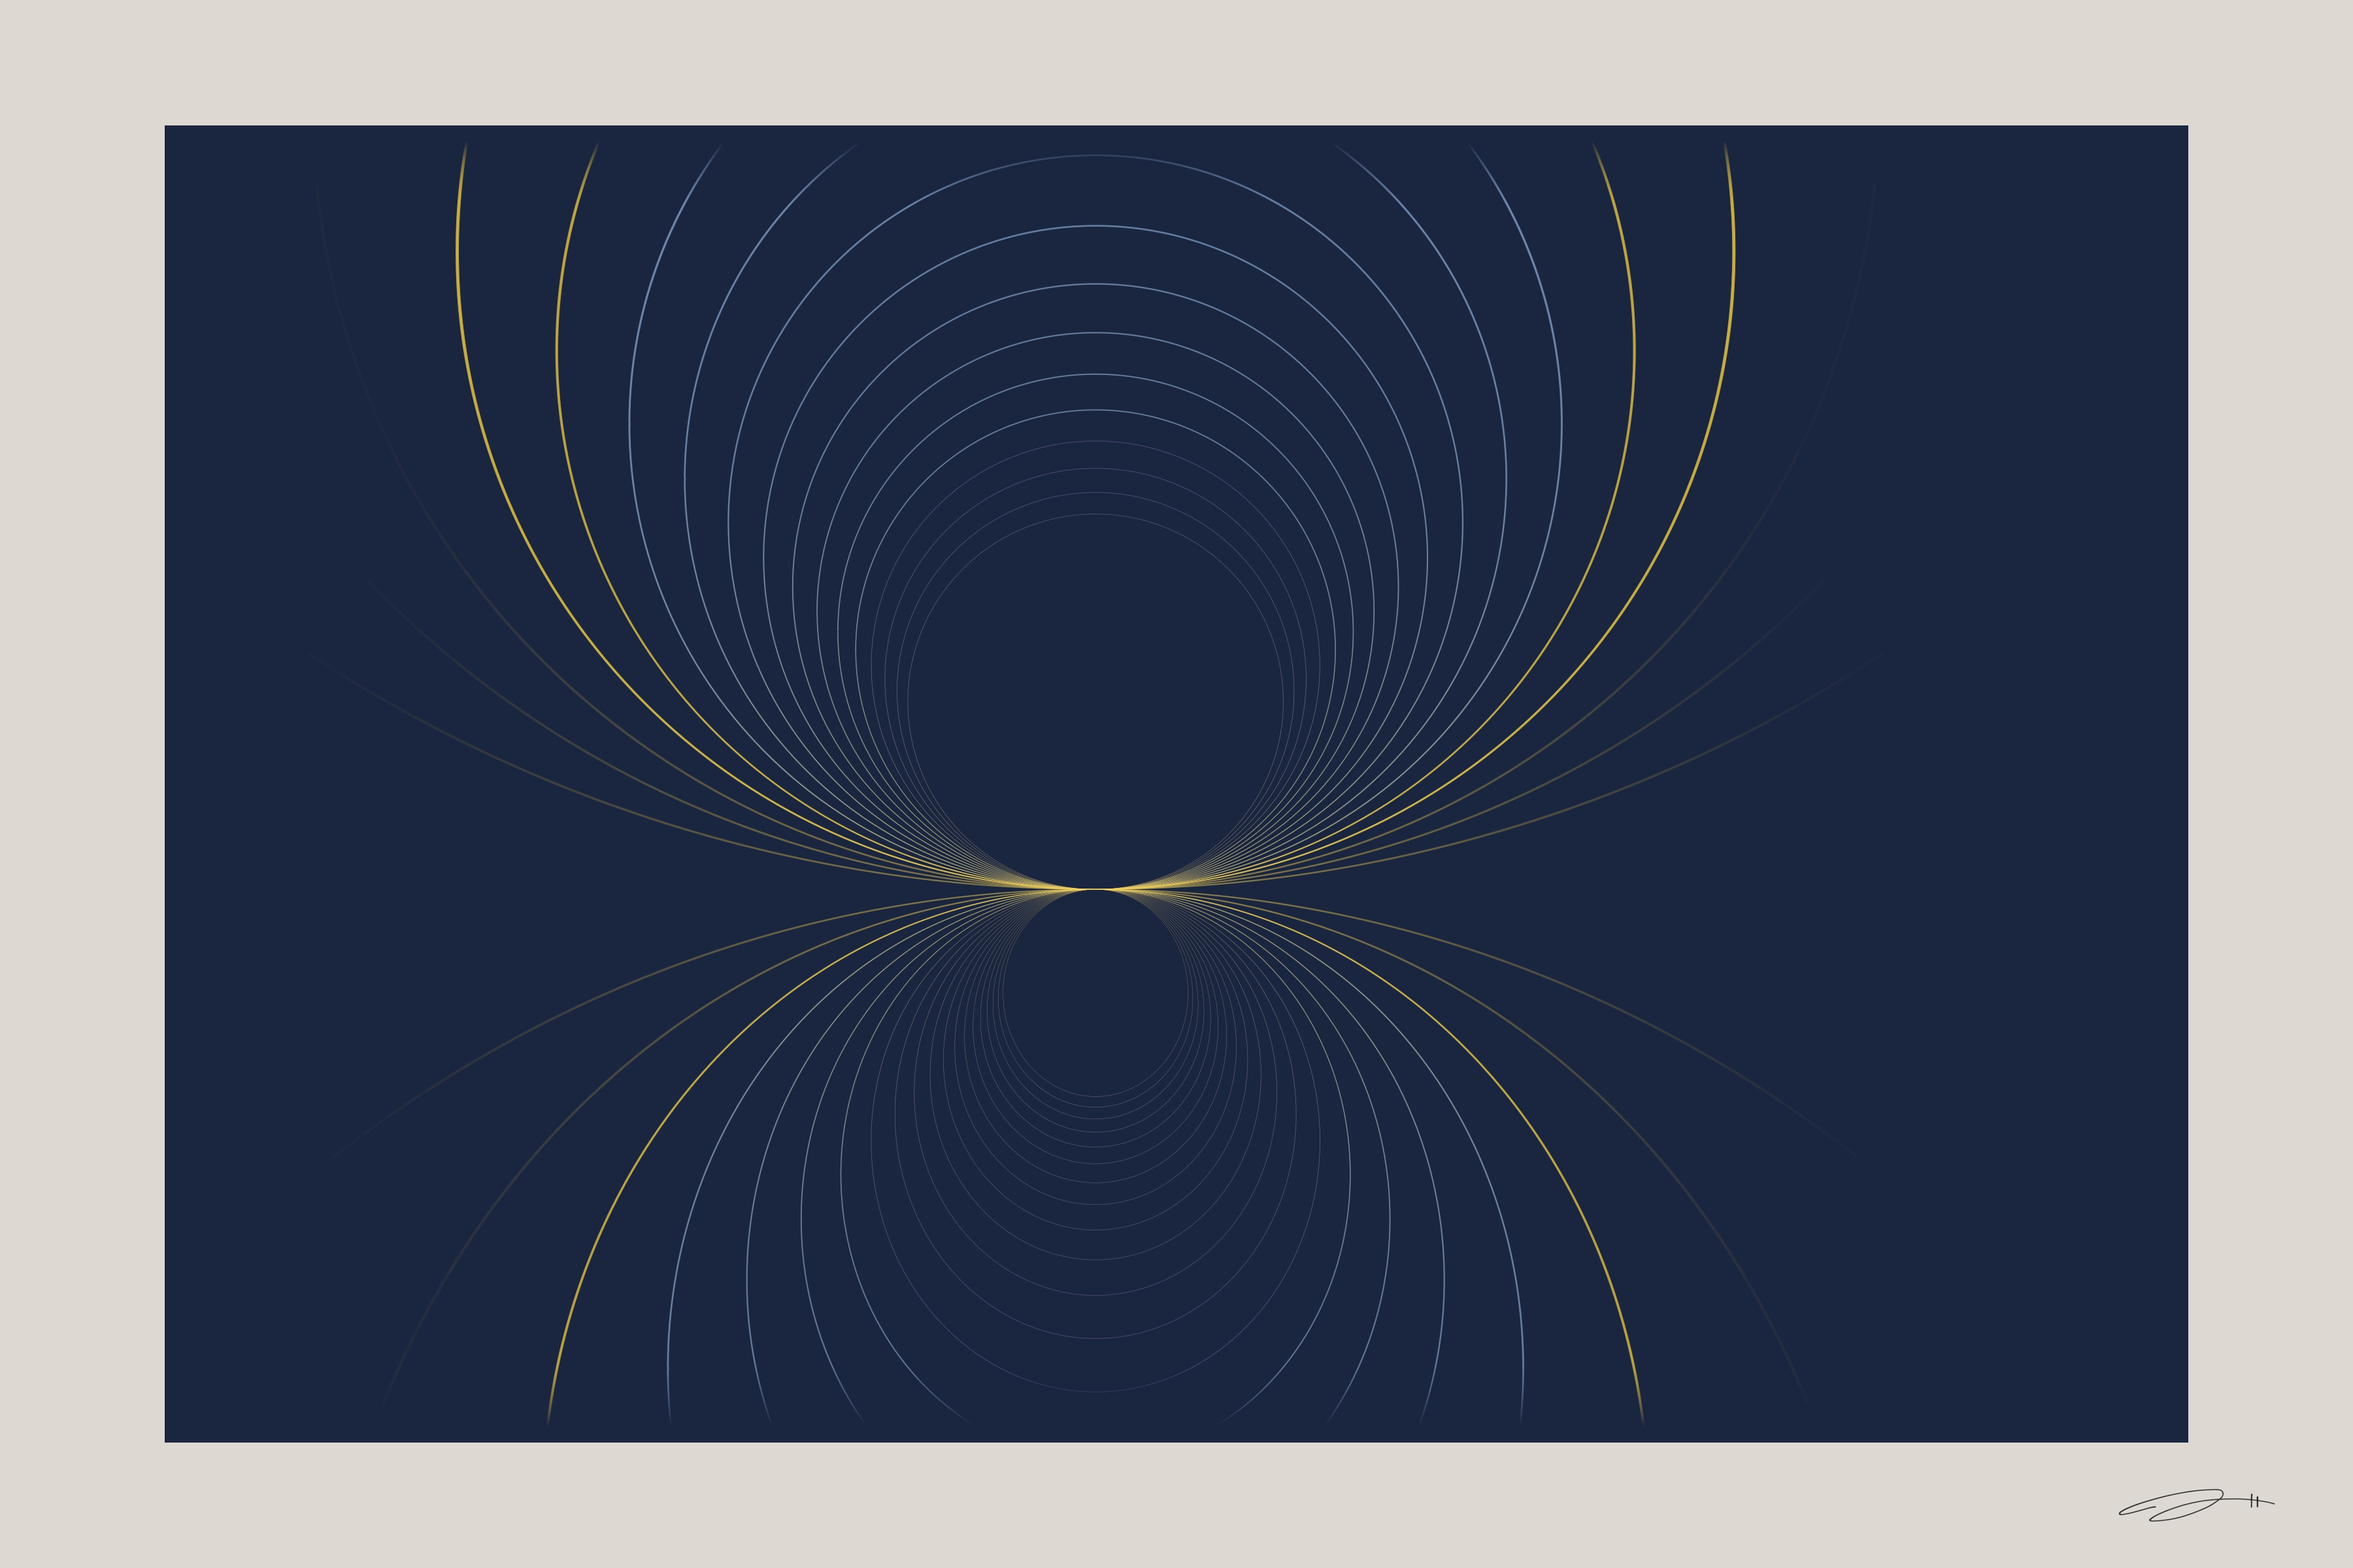
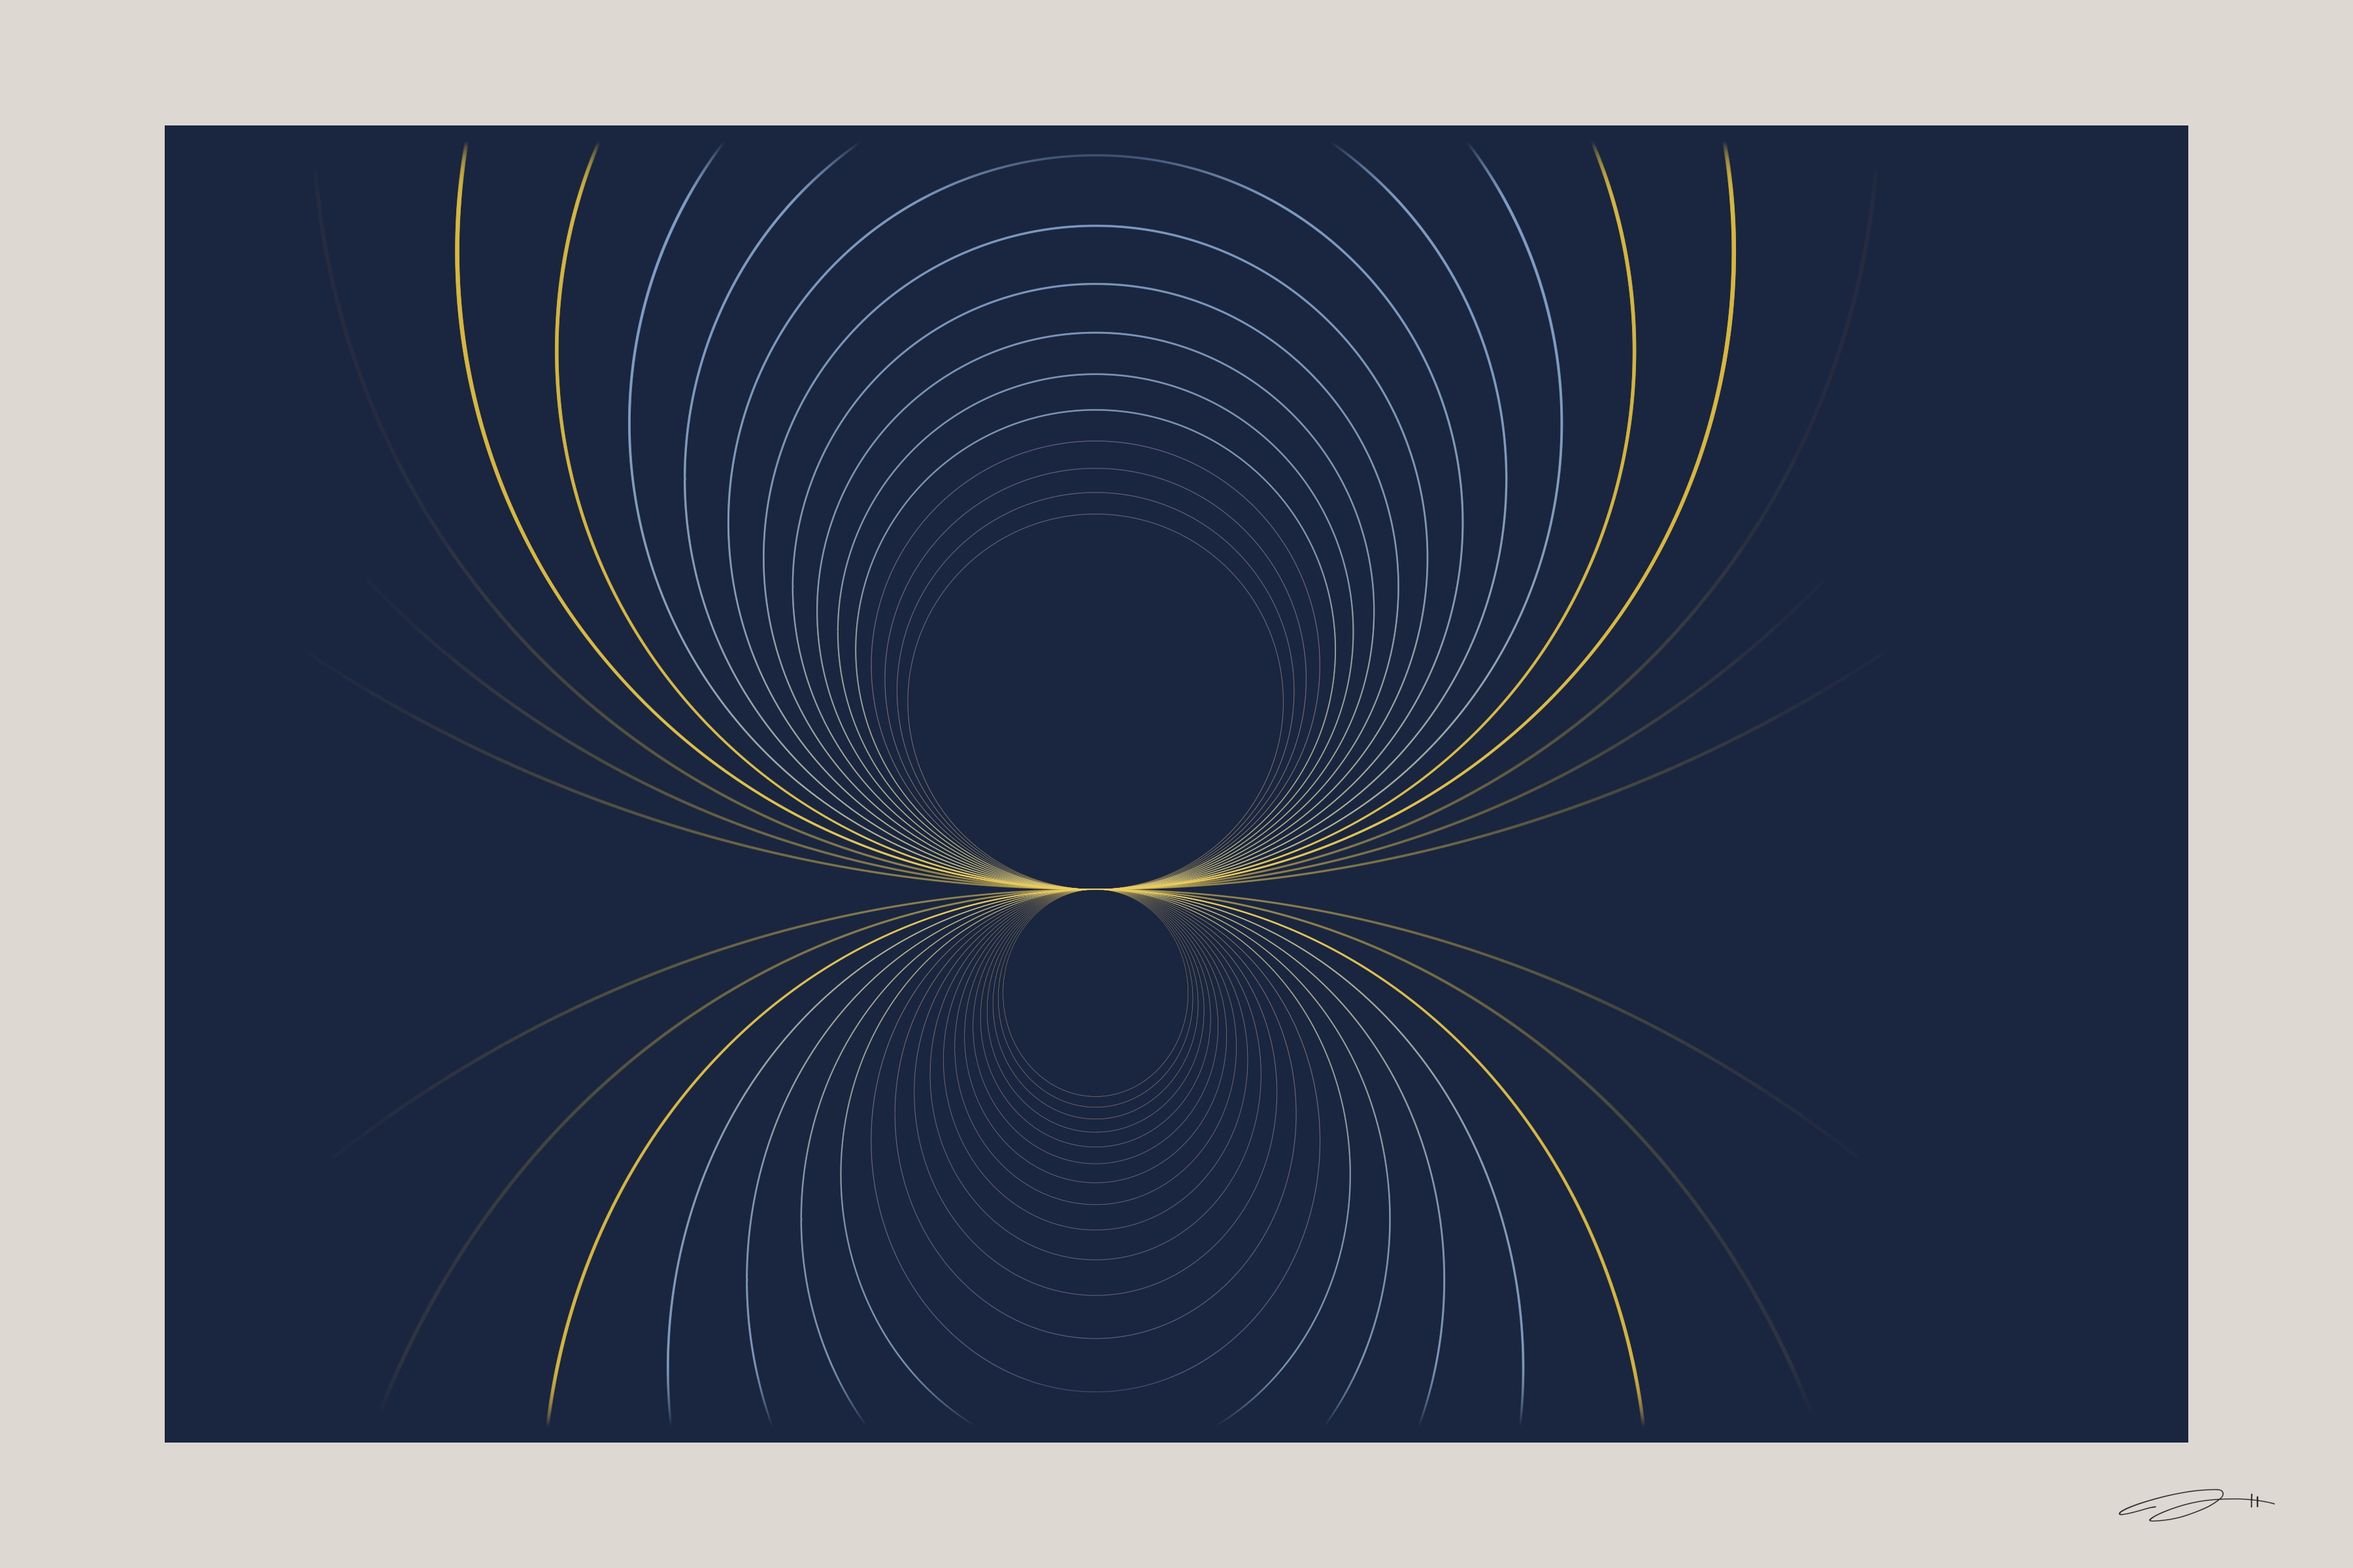
Boost Meditation web thumbnail — punchier alpha and lineweight for homepage
Dual-render pipeline: delicate PDF (no boost) and punchier web JPG
(alpha_boost=1.4, lw_boost=1.3) so the thumbnail reads well at small sizes.

Changed region(s): [[0.3111, 0.4375, 0.6222, 0.625]]

diff --git a/mathematical_affect/pieces/wonder/wonder_meditation.py b/mathematical_affect/pieces/wonder/wonder_meditation.py
@@ -50,7 +50,7 @@ def rgba(h, a):
     return (c[0], c[1], c[2], float(np.clip(a, 0, 1)))
 
 
-def render():
+def render(alpha_boost=1.0, lw_boost=1.0):
     content_bg = "#1a2540"
 
     fig, ax = plt.subplots(figsize=(FIG_W, FIG_H), dpi=DPI, facecolor=MARGIN_COLOR)
@@ -135,17 +135,17 @@ def render():
 
         if t_norm < 0.3:
             col = PALE_VIOLET
-            alpha = 0.04 + t_norm * 0.45
-            lw_base = 0.2 + t_norm * 0.6
+            alpha = (0.04 + t_norm * 0.45) * alpha_boost
+            lw_base = (0.2 + t_norm * 0.6) * lw_boost
         elif t_norm < 0.6:
             col = ICE
-            alpha = 0.25 + (t_norm - 0.3) * 0.4
-            lw_base = 0.6 + (t_norm - 0.3) * 0.8
+            alpha = (0.25 + (t_norm - 0.3) * 0.4) * alpha_boost
+            lw_base = (0.6 + (t_norm - 0.3) * 0.8) * lw_boost
         else:
             col = WARM_GOLD
             outer_fade = min(1.0, (1.0 - t_norm) / 0.12) if t_norm > 0.88 else 1.0
-            alpha = (0.40 + (t_norm - 0.6) * 0.4) * outer_fade
-            lw_base = 1.0 + (t_norm - 0.6) * 1.0
+            alpha = (0.40 + (t_norm - 0.6) * 0.4) * outer_fade * alpha_boost
+            lw_base = (1.0 + (t_norm - 0.6) * 1.0) * lw_boost
 
         for seg_x, seg_y in segments:
             pts = np.array([seg_x, seg_y]).T.reshape(-1, 1, 2)
@@ -193,21 +193,25 @@ def render():
     add_signature(fig, ax, MARGIN_COLOR, margin_piece=True,
                   margin_bottom=FIG_H * 0.08)
 
-    # Save PDF
-    pdf_path = os.path.join(OUTPUT_DIR, "wonder_meditation.pdf")
-    fig.savefig(pdf_path, format='pdf', facecolor=MARGIN_COLOR, dpi=DPI)
-    print(f"  saved {pdf_path}")
-
-    # Save JPG
-    jpg_path = os.path.join(PRINT_DIR, "wonder_meditation.jpg")
-    fig.savefig(jpg_path, facecolor=MARGIN_COLOR, dpi=DPI,
-                pil_kwargs={"quality": 96})
-    print(f"  saved {jpg_path}")
-
-    plt.close(fig)
+    return fig
 
 
 if __name__ == '__main__':
     print("═══ Wonder: Meditation ═══")
-    render()
+
+    # Delicate version for print PDF
+    fig = render()
+    pdf_path = os.path.join(OUTPUT_DIR, "wonder_meditation.pdf")
+    fig.savefig(pdf_path, format='pdf', facecolor=MARGIN_COLOR, dpi=DPI)
+    print(f"  saved {pdf_path}")
+    plt.close(fig)
+
+    # Punchier version for web thumbnail
+    fig = render(alpha_boost=1.4, lw_boost=1.3)
+    jpg_path = os.path.join(PRINT_DIR, "wonder_meditation.jpg")
+    fig.savefig(jpg_path, facecolor=MARGIN_COLOR, dpi=DPI,
+                pil_kwargs={"quality": 96})
+    print(f"  saved {jpg_path}")
+    plt.close(fig)
+
     print("═══ Done ═══")
